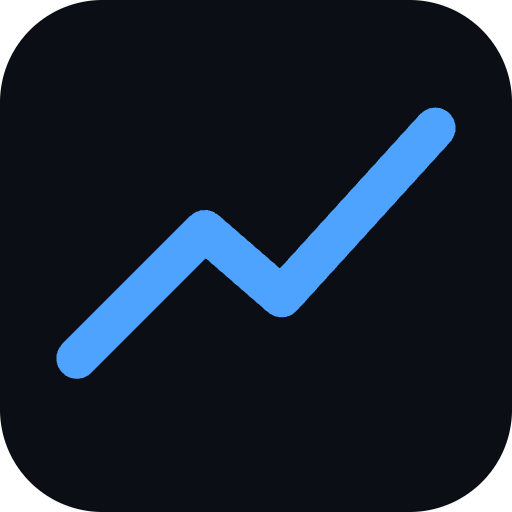
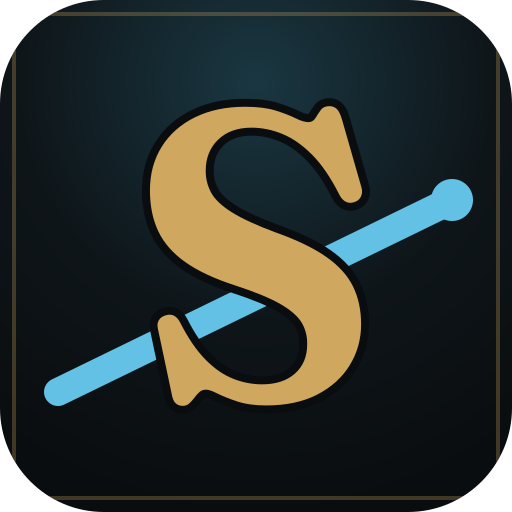
feat(brand): the masthead mark + one canonical address
New icon, changed all around: the gold Fraunces "S" — the gold word in the
nameplate — set on the teal-black card with an icy-cyan signal beam rising
behind it. Real glyph converted to a path, so it renders identically
everywhere: 192/512 PNGs, a maskable variant for Android launchers, a
full-bleed apple-touch icon, an SVG favicon (index.html finally declares
one), and the OG image the paper links.

Every reader-facing link now speaks the site's one public name,
thestreetsignal.rqai.co.uk (lib/site.ts CANONICAL_SITE): licence unlock
links, Telegram /report and /key replies, the report-ready ping and email,
OG tags, and the Helm export. Outward links no longer depend on which
domain Netlify happens to consider primary; internal function-to-function
fetches keep env.URL so deploy previews still work.

diff --git a/netlify/functions/lib/newspaper.ts b/netlify/functions/lib/newspaper.ts
@@ -1,3 +1,5 @@
+import { CANONICAL_SITE } from './site'
+
 // THE STREET SIGNAL — the guaranteed morning newspaper. The LLM writes the
 // journalism (strict JSON); THIS code owns the layout, tables and charts, so
 // depth and design never depend on a model following instructions. Composed on
@@ -638,8 +640,8 @@ ${t.rows
 <meta property="og:title" content="${esc(r.headline)}"/>
 <meta property="og:description" content="${esc(r.standfirst)}"/>
 <meta property="og:type" content="article"/>
-<meta property="og:url" content="https://thestreetsignal.netlify.app/report"/>
-<meta property="og:image" content="https://thestreetsignal.netlify.app/icon-512.png"/>
+<meta property="og:url" content="${CANONICAL_SITE}/report"/>
+<meta property="og:image" content="${CANONICAL_SITE}/icon-512.png"/>
 <meta name="twitter:card" content="summary"/>
 <style>
 :root{color-scheme:light}

diff --git a/netlify/functions/lib/site.ts b/netlify/functions/lib/site.ts
@@ -1,0 +1,8 @@
+// The paper's ONE public address. Every link a reader can see or tap —
+// licence unlock links, Telegram replies, report emails, OG tags, the Helm
+// dashboard — uses this constant, NOT process.env.URL: Netlify's URL var is
+// whatever the dashboard considers the primary domain (it silently reverts to
+// *.netlify.app if the custom domain is ever unset or demoted), and outward
+// links must never depend on that setting. Internal self-invocations
+// (function → function fetches) keep env.URL so deploy previews still work.
+export const CANONICAL_SITE = 'https://thestreetsignal.rqai.co.uk'

diff --git a/netlify/functions/lib/report.test.ts b/netlify/functions/lib/report.test.ts
@@ -23,7 +23,7 @@ describe('report endpoint', () => {
     const tg = vi.fn(async () => {})
     const put = await routeReport('PUT', auth, '<html><body>Morning brief</body></html>', env, store, tg)
     expect(put.status).toBe(200)
-    expect(tg).toHaveBeenCalledWith('bot', '42', expect.stringContaining('https://site/report'))
+    expect(tg).toHaveBeenCalledWith('bot', '42', expect.stringContaining('https://thestreetsignal.rqai.co.uk/report'))
     const get = await routeReport('GET', new Headers(), null, env, store)
     expect(await get.text()).toContain('Morning brief')
   })

diff --git a/index.html b/index.html
@@ -4,6 +4,7 @@
     <meta charset="UTF-8" />
     <meta name="viewport" content="width=device-width, initial-scale=1.0, viewport-fit=cover" />
     <meta name="theme-color" content="#0a0d0f" />
+    <link rel="icon" href="/icon.svg" type="image/svg+xml" />
     <link rel="apple-touch-icon" href="/apple-touch-icon.png" />
     <link rel="preconnect" href="https://fonts.googleapis.com" />
     <link rel="preconnect" href="https://fonts.gstatic.com" crossorigin />

diff --git a/netlify/functions/lib/telegram-webhook-keys.test.ts b/netlify/functions/lib/telegram-webhook-keys.test.ts
@@ -33,7 +33,7 @@ describe('Helm licence commands', () => {
     expect(lics[0]).toMatchObject({ label: 'PK' })
     expect(lics[0].expiresAt).toBeUndefined()
     expect(lics[0].trial).toBeUndefined()
-    expect(sent[0]).toContain(`https://x.test/?key=${lics[0].key}`)
+    expect(sent[0]).toContain(`https://thestreetsignal.rqai.co.uk/?key=${lics[0].key}`)
   })
 
   it('/key without a label shows usage and mints nothing', async () => {

diff --git a/vite.config.ts b/vite.config.ts
@@ -28,6 +28,7 @@ export default defineConfig({
         icons: [
           { src: '/icon-192.png', sizes: '192x192', type: 'image/png' },
           { src: '/icon-512.png', sizes: '512x512', type: 'image/png', purpose: 'any' },
+          { src: '/icon-512-maskable.png', sizes: '512x512', type: 'image/png', purpose: 'maskable' },
           { src: '/icon.svg', sizes: 'any', type: 'image/svg+xml', purpose: 'any' }
         ]
       }
